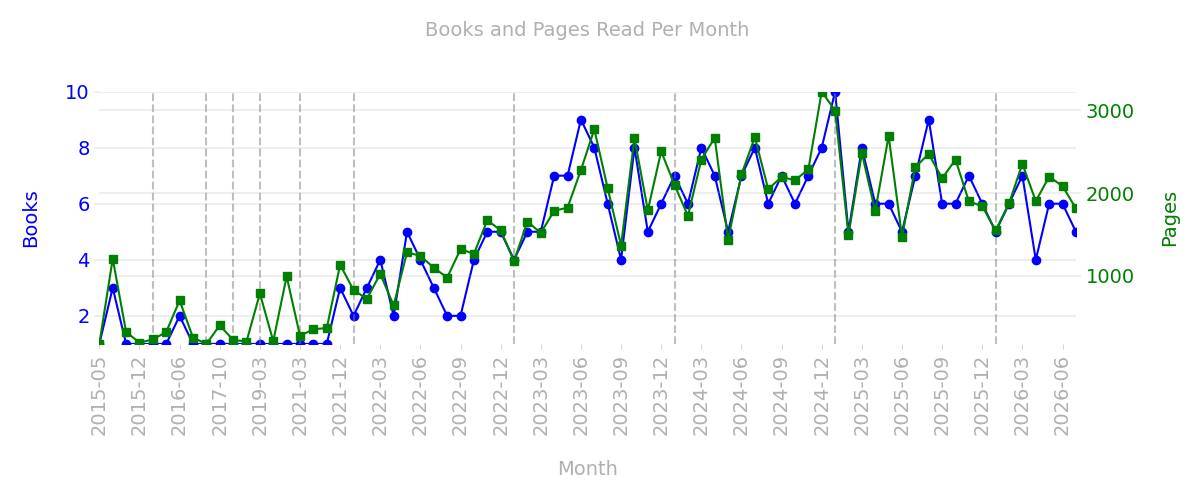
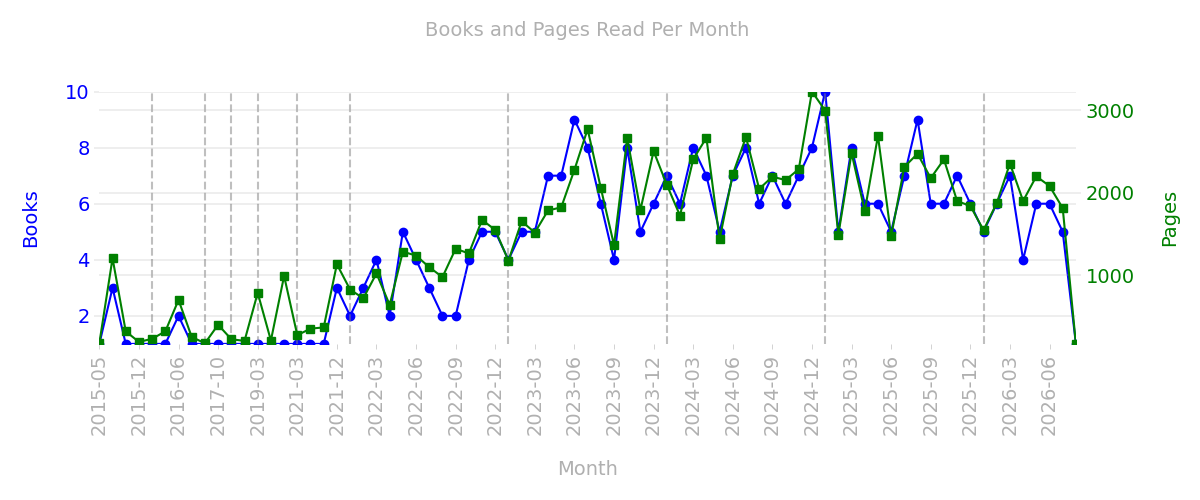
madise lood

diff --git a/Views/Books_2026.md b/Views/Books_2026.md
@@ -1,6 +1,6 @@
 # Books Read in 2026
 
-**Total: 39 books**
+**Total: 40 books**
 
 ### Incorruptible: Why Good Companies Go Bad and How Great Companies Stay Great
 **Author:** Eric Ries  
@@ -706,6 +706,19 @@ Igapäevasemalt annab antropoloogiline lähenemine võimaluse leida analüütili
 ![[covers/Võrdsuse lühiajalugu.jpg|150]]  
 
 Maailmas valitsev ebavõrdsus võib panna lootust kaotama, kuid selles mõjukas teoses näitab prantsuse majandusteadlane Thomas Piketty, et ajalugu annab põhjust optimismiks. Vaatamata tagasilangustele oleme sajandite jooksul liikunud üha suurema võrdsuse poole. Raamat annab ülevaate olulistest faktoritest, mis on maailma positiivselt või negatiivselt mõjutanud: sõjad, revolutsioonid, orjandus, kapitalismi tõus ja heaoluriigi teke. Üldises plaanis on ühiskonnad liikunud sissetulekute ja varade õiglasema jaotuse, rassilise ja soolise ebavõrdsuse vähendamise ning tervishoiu, hariduse ja kodanikuõiguste parema kättesaadavuse poole. Edasiminekuks tuleb aga meeles pidada mineviku õppetunde.
+
+---
+
+### Madise lood
+**Author:** Toivo Kalve  
+**Published:** 2018  
+**Finished:** 2026-08  
+**Rating:** ⭐⭐⭐⭐⭐  
+**Pages:** 168  
+
+![[covers/Madise lood.webp|150]]  
+
+Käesolevas raamatus käsitleb autor valikuliselt viimase 800 aasta sündmusi Harju-Madise kihelkonnas. Raamatus antakse lühiülevaade kihelkonnast sirgunud väljapaistvatest ühiskonna- ja kultuuritegelastest. Autor pajatab maarahva igapäevaelust ja ka naljakatest juhtumitest. Samuti on puudutatud NSV Liidu ja Saksa okupatsiooniga seotud sündmusi.
 
 ---
 

diff --git a/Library/Madise lood.md b/Library/Madise lood.md
@@ -1,0 +1,54 @@
+---
+type: book
+title: "Madise lood"
+author: "Toivo Kalve"
+
+isbn13: "9789949887026"
+year_published: 2018
+
+date_started: ""
+date_finished: "2026-08-01"
+
+year_finished: 2026
+month_finished: "2026-08"
+
+rating: 5
+format: "hardcover"
+pages: 168
+language: "et"
+
+tags:
+  - book
+
+cover: "covers/Madise lood.webp"
+---
+
+
+```dataviewjs
+if (dv.current().cover) { dv.paragraph("![[" + dv.current().cover + "]]"); }
+```
+
+# `= this.title`
+**Author:** `= this.author`
+
+---
+
+## 📝 My description
+Käesolevas raamatus käsitleb autor valikuliselt viimase 800 aasta sündmusi Harju-Madise kihelkonnas. Raamatus antakse lühiülevaade kihelkonnast sirgunud väljapaistvatest ühiskonna- ja kultuuritegelastest. Autor pajatab maarahva igapäevaelust ja ka naljakatest juhtumitest. Samuti on puudutatud NSV Liidu ja Saksa okupatsiooniga seotud sündmusi.
+
+---
+
+## 💡 Key ideas / quotes
+
+
+---
+
+## 🔁 Would I reread?
+- [x] Yes
+- [ ] No
+- [ ] Parts only
+
+---
+
+## ⭐ Final verdict
+
